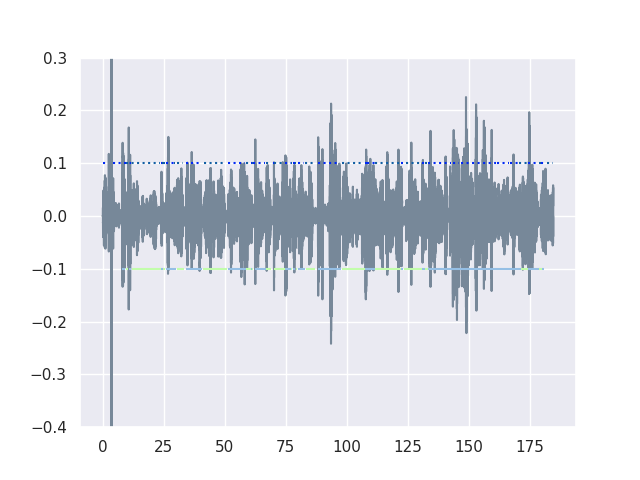
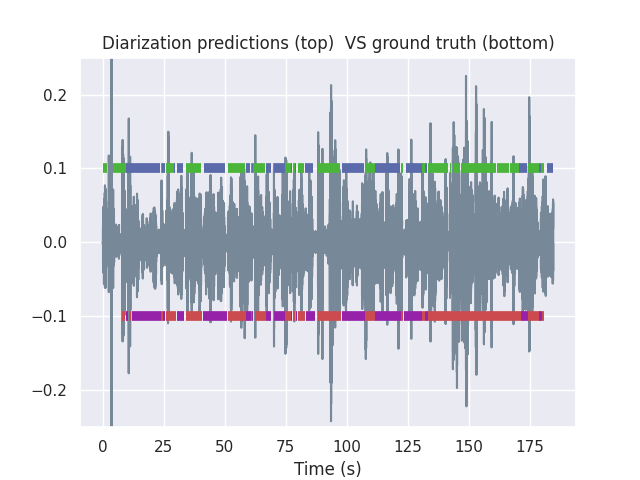
I have added the diarization plot, which is a visual way to see how it went

diff --git a/diarization/comparing_models/plot_diarization.py b/diarization/comparing_models/plot_diarization.py
@@ -1,25 +1,30 @@
 import matplotlib.pyplot as plt 
 import os
-import wave 
 import numpy as np
 import random 
 import librosa, librosa.display
 import seaborn as sns
 
 
-def plot_waveform(audio_path):
+def plot_waveform(audio_path: str):
     """
     Plots the waveform
+
+    Inputs:
+    -------
+    audio_path: str
+        The path that points to the audio that you want to plot.
     """
+    print(f"The audiopath is: {audio_path}")
     sig, sr = librosa.load(audio_path)
     time = np.arange(0, len(sig)) / sr
-    # sig = np.frombuffer(sig.readframes(sr), dtype=np.int16)
     plt.plot(time, sig, color="lightslategray")
-    plt.ylim(-0.4,0.3)
 
 
-
-def diarization_plot(ref: list[tuple[str, float, float]], hyp: list[tuple[str, float, float]], audio_path:str=None):
+def diarization_plot(ref: list[tuple[str, float, float]],
+                    hyp: list[tuple[str, float, float]],
+                    ylim: tuple[float, float] = None,
+                    audio_path:str=None):
     """
     The main function of the diarization plot.
 
@@ -30,20 +35,30 @@ def diarization_plot(ref: list[tuple[str, float, float]], hyp: list[tuple[str, f
     
     hyp: list[tuple[str, float, float]]
         The predictions list of tuples containing (Speaker, Start, End)
+    
+    ylim: tuple(ymin, ymax), Optional
 
-    audio_path: str
+    audio_path: str, Optional
         The path of the audio in order to plot it.
 
     """
-
-    if audio_path is None:
-        audio_path = "diarization/jueves_a_las_13-27.wav"
-
+    # Setting seaborn theme:
     sns.set_theme()
 
+    # Initializate the matplotlib figure
     plt.figure()
 
-    plot_waveform(audio_path=audio_path)
+    # Plotting the Waveform of the audiopath.
+    if audio_path is not None:
+        plot_waveform(audio_path=audio_path)
+    else:
+        print("If you want a plot of the waveform, please introduce its path.")
+
+    # Setting the limits of the y-axis of the plot.
+    plt.ylim(ylim[0],ylim[1])
+    
+    plt.title("Diarization predictions (top)  VS ground truth (bottom)")
+    plt.xlabel("Time (s)")
 
     # To print lines depending on the speaker.
     speaker_colours = {}
@@ -51,20 +66,16 @@ def diarization_plot(ref: list[tuple[str, float, float]], hyp: list[tuple[str, f
     # plot the reference
     for r in ref:
         speaker = r[0]
-
         if speaker not in speaker_colours:
             speaker_colours[speaker] = '#' + "%06x" % random.randint(0, 0xFFFFFF)
-
-        plt.hlines(y=-0.1, xmin=r[1], xmax=r[2],color=speaker_colours[speaker], linestyle='-')
+        plt.hlines(y=-0.1, xmin=r[1], xmax=r[2],color=speaker_colours[speaker], linewidth=7.0, linestyle='-', label="Ground Truth")
 
     # plot the predictions 
     for h in hyp:
         speaker = h[0]
-
         if speaker not in speaker_colours:
             speaker_colours[speaker] = '#' + "%06x" % random.randint(0, 0xFFFFFF)
-
-        plt.hlines(y=0.1, xmin=h[1], xmax=h[2],color=speaker_colours[speaker], linestyle="dotted")    
+        plt.hlines(y=0.1, xmin=h[1], xmax=h[2],color=speaker_colours[speaker], linewidth=7.0, linestyle="-", label="Predictions")    
 
     # We will store the imatges in this path 
     imgs_path = "diarization/comparing_models/imgs"

diff --git a/diarization/comparing_models/abir_method.py b/diarization/comparing_models/abir_method.py
@@ -23,6 +23,8 @@ for hyphotesis in hyp_list:
 
 diarizationErrorRate = DiarizationErrorRate(skip_overlap=False, collar=0.0)
 
-diarization_plot(ref=ref_list, hyp=hyp_list)
+# Plot the Diarization graphic with all speakers.
+audio_path = "diarization/jueves_a_las_13-27.wav"
+diarization_plot(ref=ref_list, hyp=hyp_list, ylim=(-0.25,0.25), audio_path=audio_path)
 
 print("DER: ",diarizationErrorRate(ref, hyp, detailed=True))
